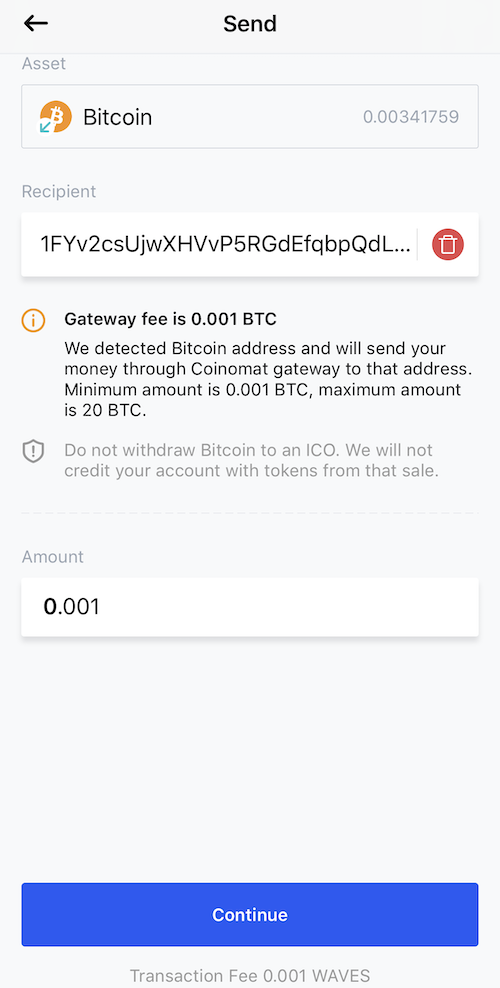
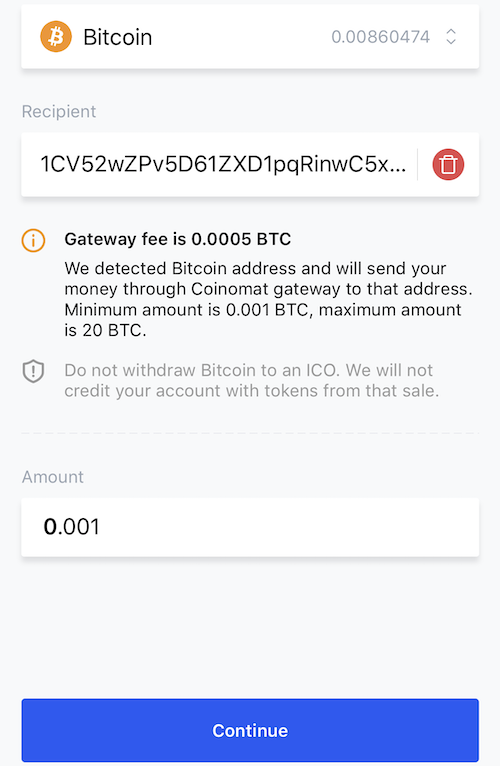
Updates from Twiggy

diff --git a/ru/waves-client/transfers-and-gateways/bitcoin-transfers.md b/ru/waves-client/transfers-and-gateways/bitcoin-transfers.md
@@ -42,7 +42,7 @@ Bitcoin поступают на Bitcoin адрес выданный пользо
 * в строку **Получатель** Bitcoin адрес получателя;
 * в строку **Количество** сумму Bitcoin, которую вы хотите отправить на адрес Получателя.
 
-**Будьте внимательны**: комиссия Bitcoin шлюза за обработку транзакции составляет 0,001 BTC, а комиссия сети Waves за проведение транзакции составляет 0,001 Waves.
+**Будьте внимательны**: комиссия Bitcoin шлюза за обработку транзакции составляет 0,0005 BTC, а комиссия сети Waves за проведение транзакции составляет 0,001 Waves.
 Внимательно прочитайте условия вывода Bitcoin, которые выделены жёлтой пунктирной линией.
 
 После заполнения всех строк и прочтения условия нажмите **Продолжить**.

diff --git a/ru/waves-client/mobile-apps/android/transfers-and-gateways/bitcoin-transfers.md b/ru/waves-client/mobile-apps/android/transfers-and-gateways/bitcoin-transfers.md
@@ -49,7 +49,7 @@ Bitcoin поступают на Bitcoin адрес выданный пользо
 * в строку **Получатель** введите Bitcoin адрес получателя или сканируйте QR-код или найдите адрес получателя в **Адресной книге**;
 * в строку **Количество** сумму Bitcoin, которую вы хотите отправить на Bitcoin адрес Получателя или выберите параметр из списка: **Весь баланс** **50%** **10%** **5%**.
 
-Пожалуйста, помните, что комиссия шлюза за обработку транзакции составляет **0.001 BTC**, а комиссия сети Waves - **0.001 Waves**.
+Пожалуйста, помните, что комиссия шлюза за обработку транзакции составляет **0.0005 BTC**, а комиссия сети Waves - **0.001 Waves**.
 
 **Перед отправкой средств внимательно прочитайте условия**.
 

diff --git a/ru/waves-client/mobile-apps/iOS/transfers-and-gateways/bitcoin-transfers.md b/ru/waves-client/mobile-apps/iOS/transfers-and-gateways/bitcoin-transfers.md
@@ -49,7 +49,7 @@ Bitcoin поступают на Bitcoin адрес выданный пользо
 * в строку **Получатель** введите Bitcoin адрес получателя или сканируйте QR-код или найдите адрес получателя в **Адресной книге**;
 * в строку **Количество** сумму Bitcoin, которую вы хотите отправить на Bitcoin адрес Получателя или выберите параметр из списка: **Весь баланс** **50%** **10%** **5%**.
 
-Пожалуйста, помните, что комиссия шлюза за обработку транзакции составляет **0.001 BTC**, а комиссия сети Waves - **0.001 Waves**.
+Пожалуйста, помните, что комиссия шлюза за обработку транзакции составляет **0.0005 BTC**, а комиссия сети Waves - **0.001 Waves**.
 
 **Перед отправкой средств внимательно прочитайте условия**.
 

diff --git a/en/waves-client/mobile-apps/android/transfers-and-gateways/bitcoin-transfers.md b/en/waves-client/mobile-apps/android/transfers-and-gateways/bitcoin-transfers.md
@@ -49,7 +49,7 @@ Fill in the sending form.
 * **Recipient**: Put the recipient address or scan QR-code or choose from Address book.
 * **Amount**: Define a number of Bitcoins you want to send or choose **Use total balance** **50%** **10%** **5%**
 
-Please note that the gateway charges **0.001 BTC** for the gateway fee as well as **0.001 Waves** for the network fee.
+Please note that the gateway charges **0.0005 BTC** for the gateway fee as well as **0.001 Waves** for the network fee.
 **Before proceeding please carefully read the conditions**.
 
 After you have filled the form, click on the **Continue**.

diff --git a/en/waves-client/mobile-apps/iOS/transfers-and-gateways/bitcoin-transfers.md b/en/waves-client/mobile-apps/iOS/transfers-and-gateways/bitcoin-transfers.md
@@ -49,7 +49,7 @@ Fill in the sending form.
 * **Recipient**: Put the recipient address or scan QR-code or choose from Address book.
 * **Amount**: Define a number of Bitcoins you want to send or choose **Use total balance** **50%** **10%** **5%**
 
-Please note that the gateway charges **0.001 BTC** for the gateway fee as well as **0.001 Waves** for the network fee.
+Please note that the gateway charges **0.0005 BTC** for the gateway fee as well as **0.001 Waves** for the network fee.
 **Before proceeding please carefully read the conditions**.
 
 After you have filled the form, click on the **Continue**.

diff --git a/en/waves-client/transfers-and-gateways/bitcoin-transfers.md b/en/waves-client/transfers-and-gateways/bitcoin-transfers.md
@@ -37,7 +37,7 @@ In the Bitcoin section, click on the **Send** button.
 
 The following pop-up will appear.  
 Paste the Bitcoin address you want to send to as well as the amount of Bitcoin.  
-Please note that the gateway charges **0.001 BTC** for the gateway fee as well as **0.001 Waves** for the network fee.
+Please note that the gateway charges **0.0005 BTC** for the gateway fee as well as **0.001 Waves** for the network fee.
 **Before proceeding please carefully read the conditions**.
 
 After you have filled the form, click on the **Continue** button.
